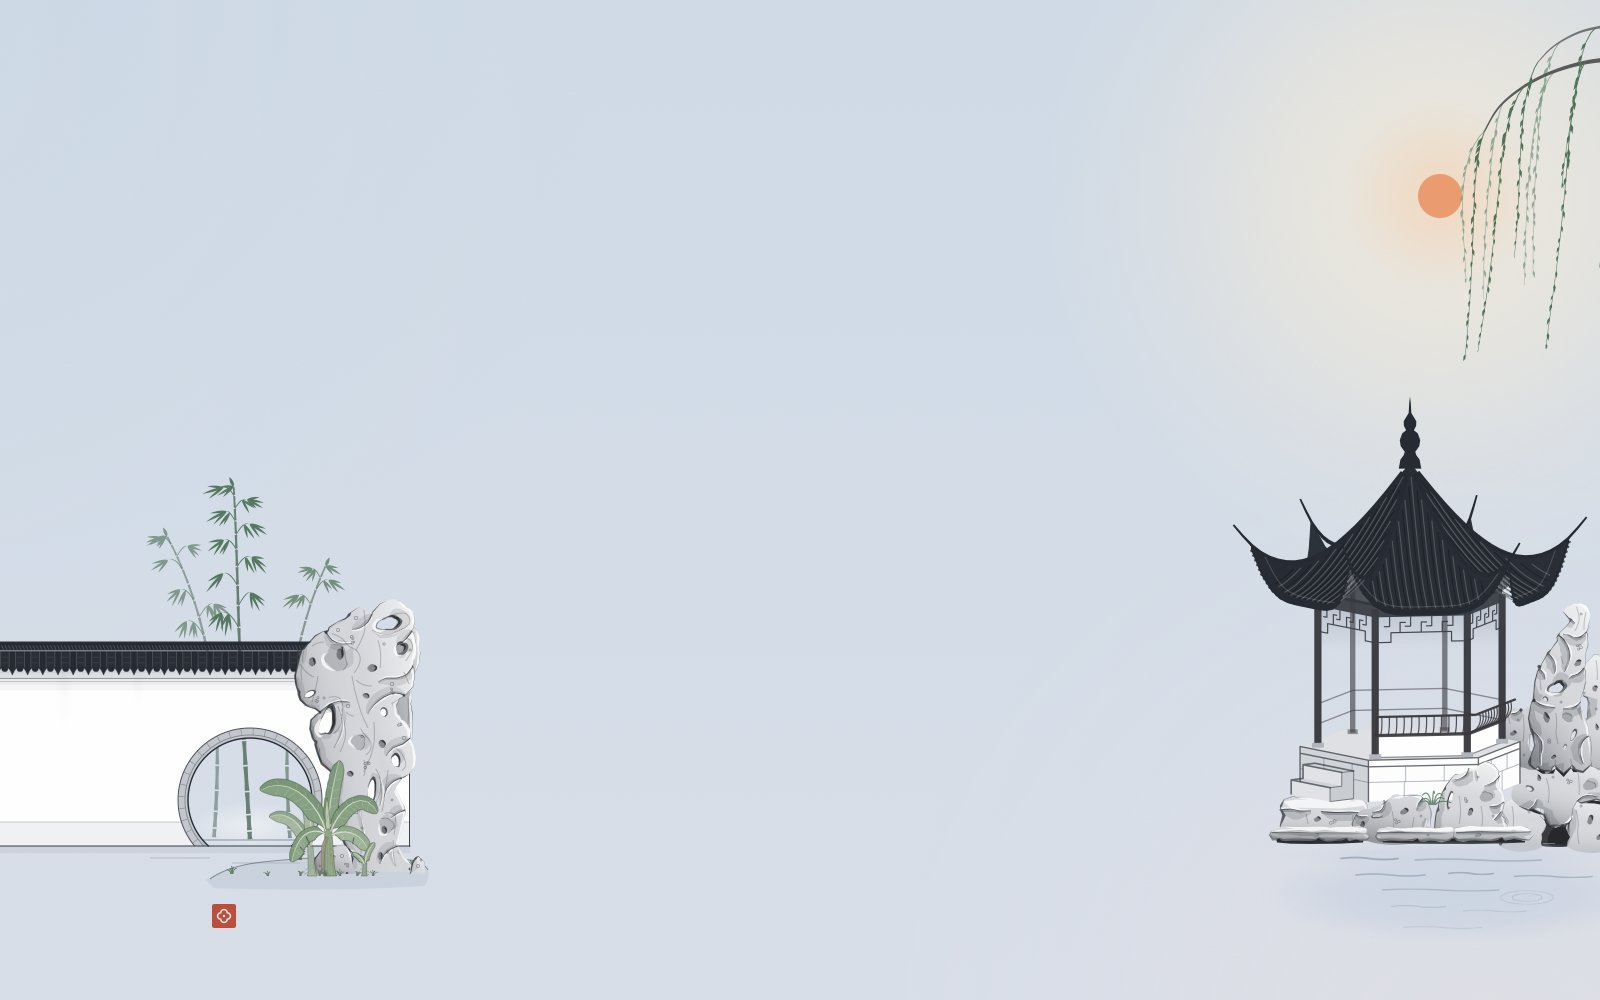
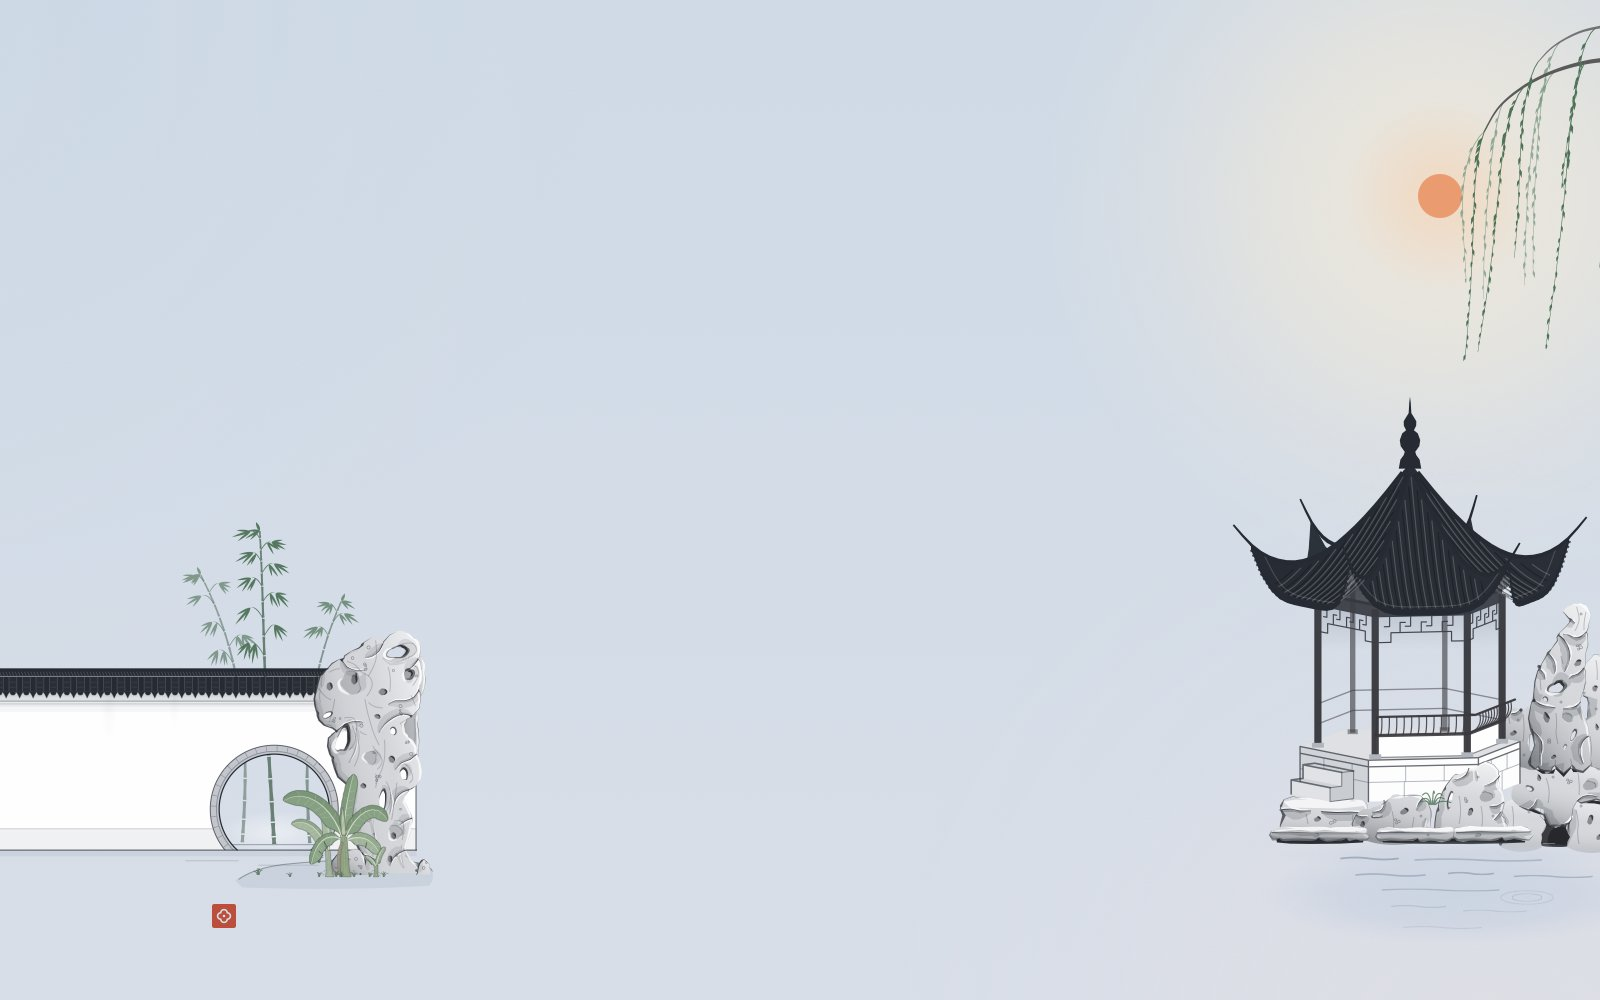
Pavilion and Stones: the round gate clear of the sidebar (0.6.2)
On a wide window the app's sidebar covers the sheet to about x 197, and the gate's ring began
at 178, so its left side was lost unless the sidebar was closed. The left group (wall, gate,
peak, banana, bamboo) is now set down at 0.889 of its size and 52 units further right: the ring
runs from about 210, and the peak still ends before the reading column.

Changed region(s): [[0.0, 0.465, 0.2812, 0.899]]

diff --git a/_workshop/scenes-final/garden-court/scene.ts b/_workshop/scenes-final/garden-court/scene.ts
@@ -2418,7 +2418,8 @@ interface Wall {
   scale: number
 }
 
-const WALL: Wall = { from: -6, to: 410, eave: 668, ground: 846, scale: 0.8 }
+// `from` reaches well past the sheet's left edge: the whole left group is set down smaller and further right (LEFT_AT).
+const WALL: Wall = { from: -70, to: 410, eave: 668, ground: 846, scale: 0.8 }
 
 /** The gate: a full circle whose foot is cut by the sill. `drop` is how far its centre stands above the ground. */
 const GATE = { x: 250, drop: 46, r: 62, trim: 10 }
@@ -3159,6 +3160,11 @@ function toSheet(x: number, y: number): Point {
 /** The banana clump, Moon Gate's, drawn in its own units and set down at the peak's left foot, smaller. */
 const BANANA_AT = { k: 0.66, x: 330, y: 876, from: { x: 334, y: 833 } }
 
+/** The left group (wall, gate, peak, banana, bamboo) is drawn in the numbers it was designed in and set down a little smaller
+ * and further right: on a wide window the app's sidebar covers the sheet to about x 197, and the gate's ring, which began at
+ * 178, lost its left side there. Now the ring runs from about 210 to 338 and the peak still ends before the reading column. */
+const LEFT_AT = { k: 0.889, x: 52, y: 98 }
+
 /** The whole sheet on one stock. */
 function gardenSheet(stock: Stock): string {
   const sky = stock.sky
@@ -3272,6 +3278,7 @@ function gardenSheet(stock: Stock): string {
 
   const g = stock.gate
   const left =
+    `<g transform="translate(${LEFT_AT.x} ${LEFT_AT.y}) scale(${LEFT_AT.k})">` +
     beyondGate(stock) +
     bamboo(stock) +
     wall.markup +
@@ -3279,6 +3286,7 @@ function gardenSheet(stock: Stock): string {
     plantedBed(stock) +
     peak.markup +
     `<g transform="translate(${round(BANANA_AT.x - BANANA_AT.from.x * BANANA_AT.k)} ${round(BANANA_AT.y - BANANA_AT.from.y * BANANA_AT.k)}) scale(${BANANA_AT.k})">${plant.markup}</g>` +
+    '</g>' +
     seal(212, 904, stock)
 
   // Built in drawing order, so that every lens of mist has made its gradient before the defs are written.

diff --git a/theme-examples/hooks/scenes/garden-court.ts b/theme-examples/hooks/scenes/garden-court.ts
@@ -2421,7 +2421,8 @@ interface Wall {
   scale: number
 }
 
-const WALL: Wall = { from: -6, to: 410, eave: 668, ground: 846, scale: 0.8 }
+// `from` reaches well past the sheet's left edge: the whole left group is set down smaller and further right (LEFT_AT).
+const WALL: Wall = { from: -70, to: 410, eave: 668, ground: 846, scale: 0.8 }
 
 /** The gate: a full circle whose foot is cut by the sill. `drop` is how far its centre stands above the ground. */
 const GATE = { x: 250, drop: 46, r: 62, trim: 10 }
@@ -3162,6 +3163,11 @@ function toSheet(x: number, y: number): Point {
 /** The banana clump, Moon Gate's, drawn in its own units and set down at the peak's left foot, smaller. */
 const BANANA_AT = { k: 0.66, x: 330, y: 876, from: { x: 334, y: 833 } }
 
+/** The left group (wall, gate, peak, banana, bamboo) is drawn in the numbers it was designed in and set down a little smaller
+ * and further right: on a wide window the app's sidebar covers the sheet to about x 197, and the gate's ring, which began at
+ * 178, lost its left side there. Now the ring runs from about 210 to 338 and the peak still ends before the reading column. */
+const LEFT_AT = { k: 0.889, x: 52, y: 98 }
+
 /** The whole sheet on one stock. */
 function gardenSheet(stock: Stock): string {
   const sky = stock.sky
@@ -3275,6 +3281,7 @@ function gardenSheet(stock: Stock): string {
 
   const g = stock.gate
   const left =
+    `<g transform="translate(${LEFT_AT.x} ${LEFT_AT.y}) scale(${LEFT_AT.k})">` +
     beyondGate(stock) +
     bamboo(stock) +
     wall.markup +
@@ -3282,6 +3289,7 @@ function gardenSheet(stock: Stock): string {
     plantedBed(stock) +
     peak.markup +
     `<g transform="translate(${round(BANANA_AT.x - BANANA_AT.from.x * BANANA_AT.k)} ${round(BANANA_AT.y - BANANA_AT.from.y * BANANA_AT.k)}) scale(${BANANA_AT.k})">${plant.markup}</g>` +
+    '</g>' +
     seal(212, 904, stock)
 
   // Built in drawing order, so that every lens of mist has made its gradient before the defs are written.
